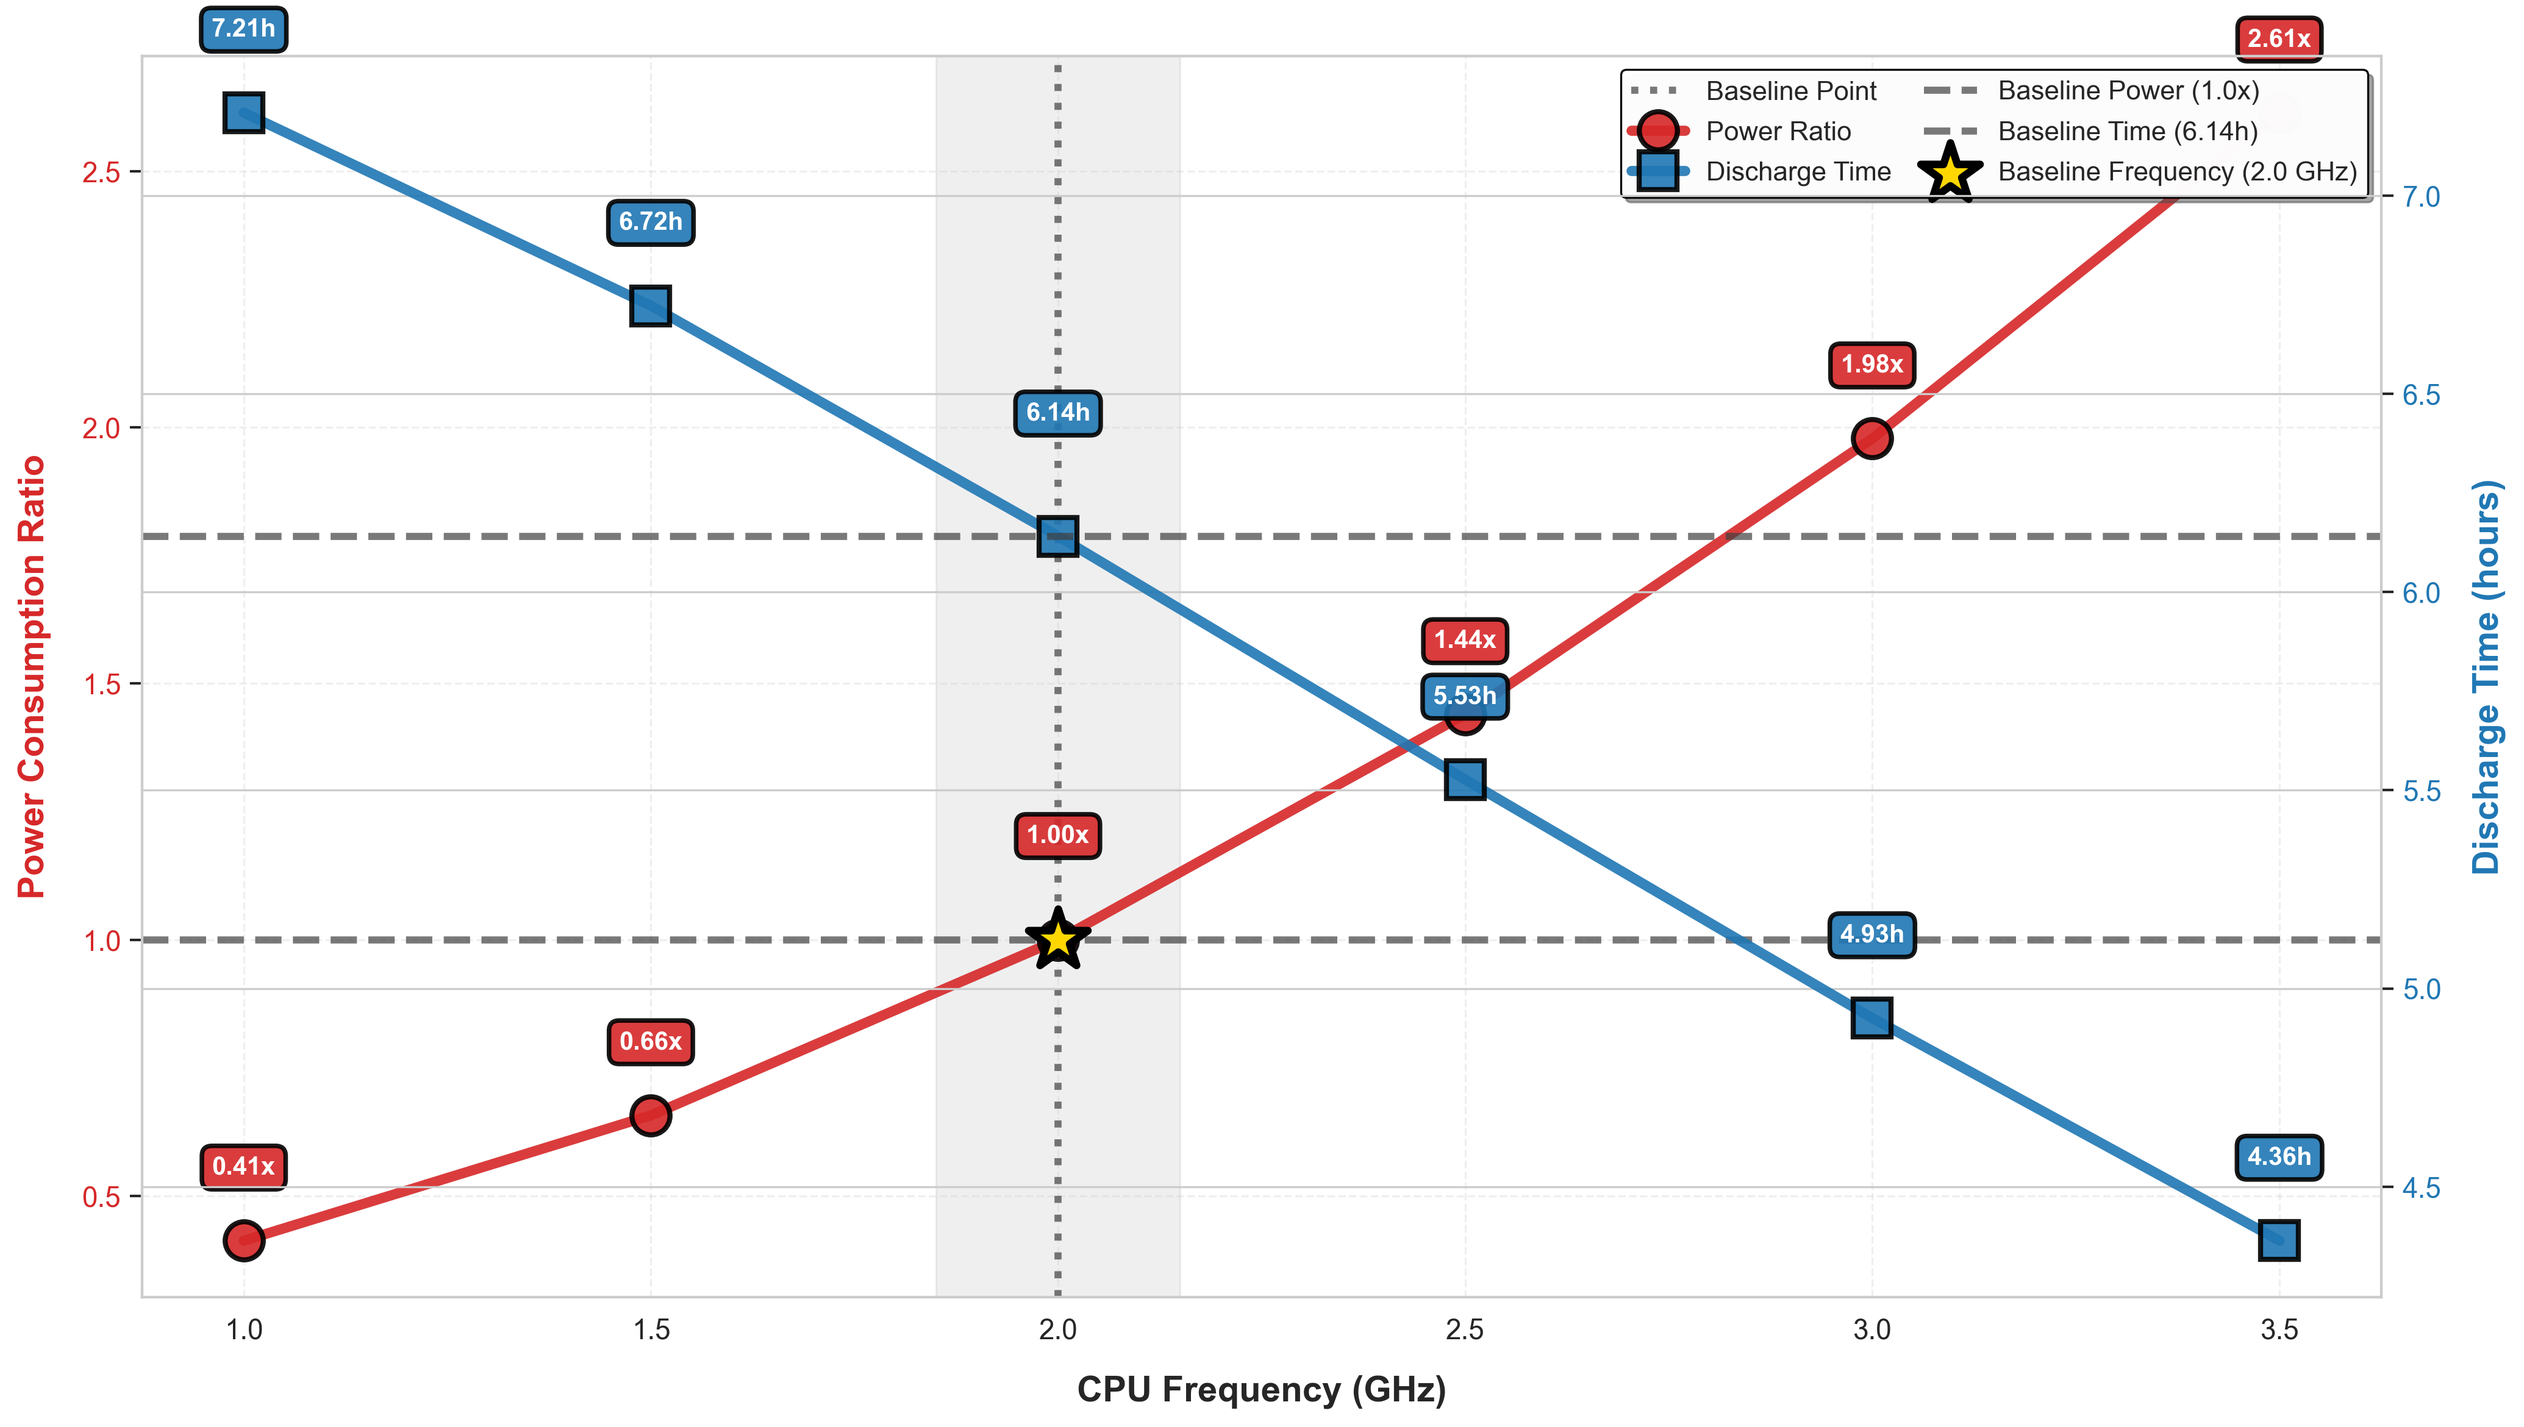
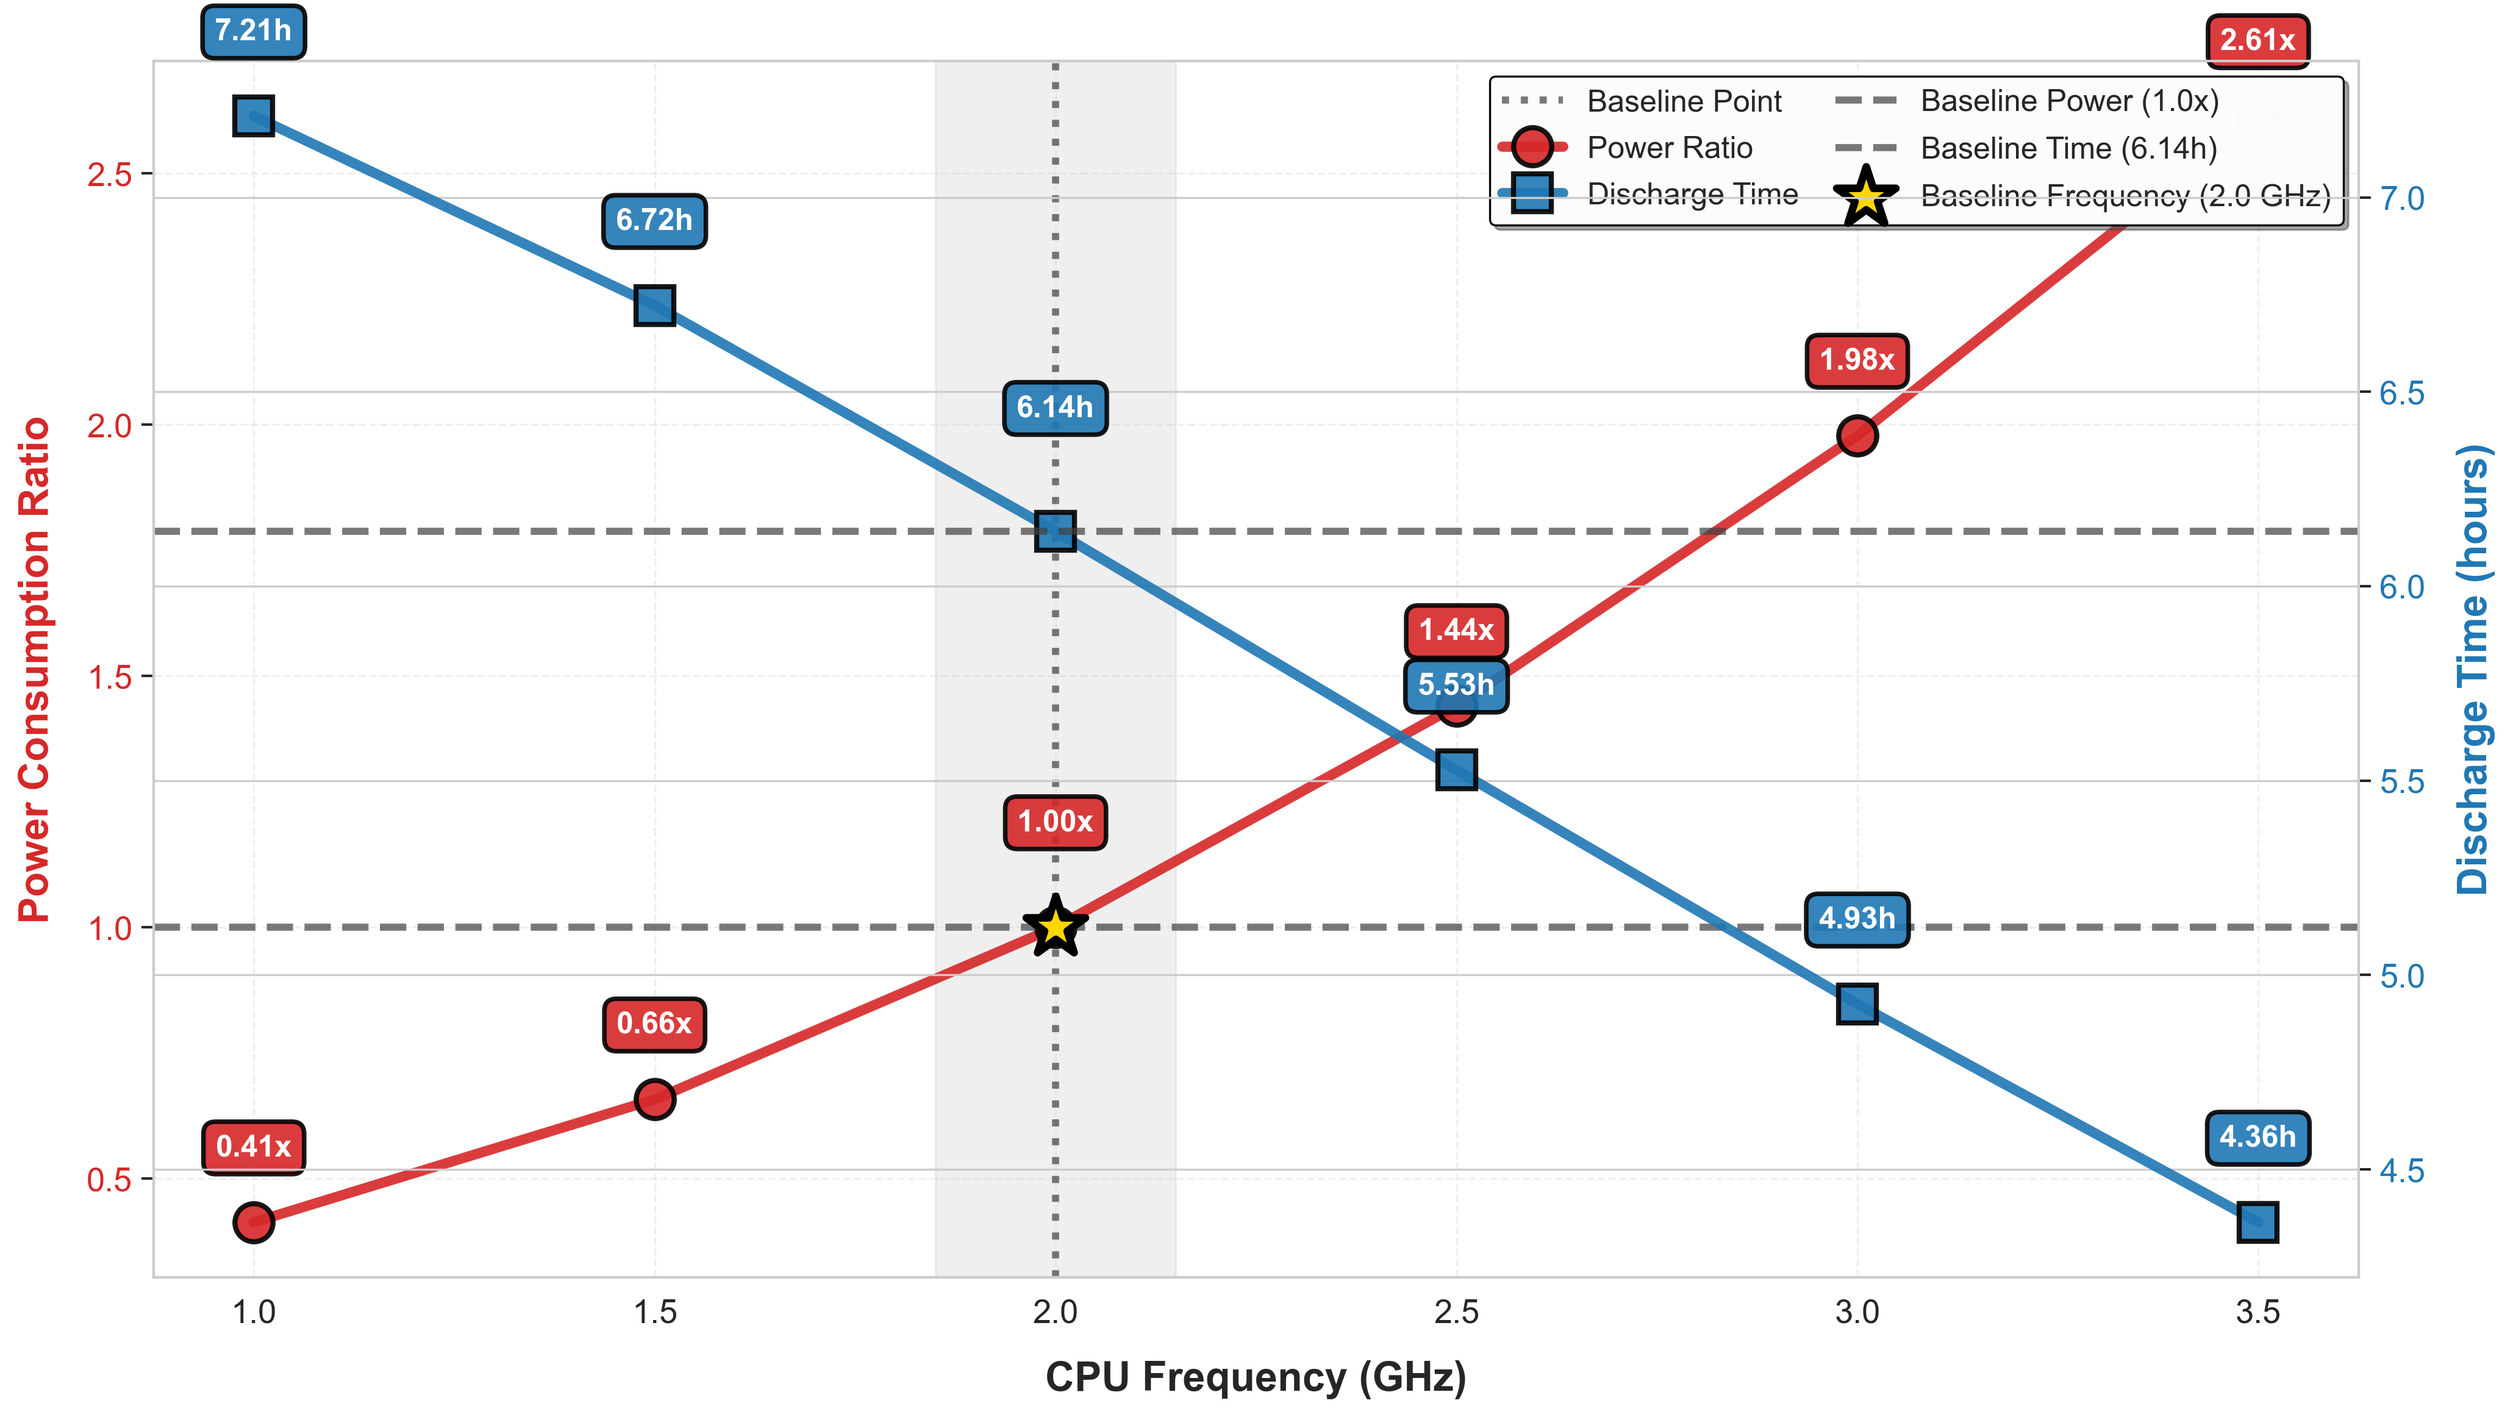
mofify

diff --git a/问题2/power_ratio_analysis.py b/问题2/power_ratio_analysis.py
@@ -12,7 +12,7 @@ from matplotlib import rcParams
 
 # 设置科研美赛风格
 sns.set_style("whitegrid")
-sns.set_context("paper", font_scale=1.4)
+sns.set_context("paper", font_scale=1.6)  # 增大基础字体比例
 sns.set_palette("husl")
 
 # 设置字体为Times New Roman（英文）+ SimHei（中文）
@@ -162,18 +162,22 @@ def create_visualizations(df, baseline_power):
                 square=False,
                 vmin=1.5,
                 vmax=6.5,
-                annot_kws={'fontsize': 10, 'fontweight': 'bold'},
+                annot_kws={'fontsize': 13, 'fontweight': 'bold'},  # 增大热力图数字到13
                 ax=ax)
     
     # 设置标题和标签
     #ax.set_title('Screen Power Consumption Ratio Heatmap\n(Baseline: 60Hz, 30% Brightness)', 
      #            fontsize=16, fontweight='bold', pad=20)
-    ax.set_xlabel('Refresh Rate (Hz)', fontsize=13, fontweight='bold', labelpad=10)
-    ax.set_ylabel('Brightness Level (%)', fontsize=13, fontweight='bold', labelpad=10)
+    ax.set_xlabel('Refresh Rate (Hz)', fontsize=15, fontweight='bold', labelpad=10)  # 增大到15
+    ax.set_ylabel('Brightness Level (%)', fontsize=15, fontweight='bold', labelpad=10)  # 增大到15
     
     # 调整colorbar
     cbar = ax.collections[0].colorbar
-    cbar.ax.tick_params(labelsize=11)
+    cbar.ax.tick_params(labelsize=13)  # 增大colorbar刻度到13
+    cbar.set_label('Power Ratio (relative to baseline)', fontsize=14, fontweight='bold')  # 增大colorbar标签到14
+    
+    # 调整刻度标签大小
+    ax.tick_params(axis='both', which='major', labelsize=13)  # 增大轴刻度到13
     
     plt.tight_layout()
     filename1 = 'power_ratio_heatmap.png'
@@ -181,151 +185,8 @@ def create_visualizations(df, baseline_power):
     plt.close()
     print(f"  [1/4] 已生成: {filename1}")
     
-    # ====================
-    # 图2: 线图 - 不同亮度下刷新率的影响 (Seaborn风格)
-    # ====================
-    fig, ax = plt.subplots(figsize=(12, 7), dpi=300)
+   
     
-    # 使用seaborn的色板
-    palette = sns.color_palette("rocket_r", n_colors=len(df['Brightness'].unique()))
-    
-    for i, brightness in enumerate(sorted(df['Brightness'].unique())):
-        subset = df[df['Brightness'] == brightness].sort_values('Refresh_Rate')
-        ax.plot(subset['Refresh_Rate'], 
-                subset['Power_Ratio'],
-                marker='o',
-                linewidth=2.5,
-                markersize=10,
-                label=f'{int(brightness*100)}% Brightness',
-                color=palette[i],
-                alpha=0.85)
-    
-    # 添加基准线
-    ax.axhline(y=1.0, color='#e74c3c', linestyle='--', linewidth=2.5, 
-               label='Baseline (1.0x)', alpha=0.8, zorder=0)
-    
-    # 设置标题和标签
-    ax.set_xlabel('Refresh Rate (Hz)', fontsize=13, fontweight='bold', labelpad=10)
-    ax.set_ylabel('Power Consumption Ratio', fontsize=13, fontweight='bold', labelpad=10)
-    #ax.set_title('Impact of Refresh Rate on Power Consumption\nat Different Brightness Levels\n(Baseline: 60Hz, 30% Brightness)', 
-      #           fontsize=16, fontweight='bold', pad=20)
-    
-    # 设置图例
-    ax.legend(loc='upper left', frameon=True, shadow=True, 
-              fontsize=11, ncol=2, framealpha=0.95)
-    
-    # 设置网格
-    ax.grid(True, alpha=0.3, linestyle='--', linewidth=0.8)
-    ax.set_axisbelow(True)
-    
-    # 设置刻度
-    ax.set_xticks([60, 70, 80, 90, 100, 110, 120])
-    
-    plt.tight_layout()
-    filename2 = 'power_ratio_by_refresh.png'
-    plt.savefig(filename2, dpi=300, bbox_inches='tight', facecolor='white')
-    plt.close()
-    print(f"  [2/4] 已生成: {filename2}")
-    
-    # ====================
-    # 图3: 分组柱状图 - 不同刷新率下亮度的影响 (Seaborn风格)
-    # ====================
-    fig, ax = plt.subplots(figsize=(14, 7), dpi=300)
-    
-    # 准备数据
-    plot_df = df.copy()
-    plot_df['Brightness_Label'] = plot_df['Brightness_Percent'].astype(str) + '%'
-    
-    # 使用seaborn的barplot
-    sns.barplot(data=plot_df, 
-                x='Refresh_Rate', 
-                y='Power_Ratio',
-                hue='Brightness_Label',
-                palette='mako_r',
-                ax=ax,
-                edgecolor='black',
-                linewidth=1.2,
-                alpha=0.85)
-    
-    # 添加基准线
-    ax.axhline(y=1.0, color='#e74c3c', linestyle='--', linewidth=2.5, 
-               label='Baseline (1.0x)', alpha=0.8, zorder=0)
-    
-    # 设置标题和标签
-    ax.set_xlabel('Refresh Rate (Hz)', fontsize=13, fontweight='bold', labelpad=10)
-    ax.set_ylabel('Power Consumption Ratio', fontsize=13, fontweight='bold', labelpad=10)
-    #ax.set_title('Power Consumption Ratio by Refresh Rate and Brightness\n(Baseline: 60Hz, 30% Brightness)', 
-     #            fontsize=16, fontweight='bold', pad=20)
-    
-    # 设置图例
-    handles, labels = ax.get_legend_handles_labels()
-    ax.legend(handles, labels, 
-              title='Brightness', 
-              loc='upper left', 
-              frameon=True, 
-              shadow=True,
-              fontsize=11,
-              title_fontsize=12,
-              ncol=3,
-              framealpha=0.95)
-    
-    # 设置网格
-    ax.grid(True, alpha=0.3, axis='y', linestyle='--', linewidth=0.8)
-    ax.set_axisbelow(True)
-    
-    plt.tight_layout()
-    filename3 = 'power_ratio_bar_chart.png'
-    plt.savefig(filename3, dpi=300, bbox_inches='tight', facecolor='white')
-    plt.close()
-    print(f"  [3/4] 已生成: {filename3}")
-    
-    # ====================
-    # 图4: 雷达图 - 各刷新率平均功耗倍数对比 (新增)
-    # ====================
-    fig, ax = plt.subplots(figsize=(10, 10), dpi=300, subplot_kw=dict(projection='polar'))
-    
-    # 准备数据
-    refresh_groups = df.groupby('Refresh_Rate')['Power_Ratio'].mean().reset_index()
-    categories = [f'{int(r)} Hz' for r in refresh_groups['Refresh_Rate']]
-    values = refresh_groups['Power_Ratio'].tolist()
-    
-    # 闭合雷达图
-    values += values[:1]
-    angles = np.linspace(0, 2 * np.pi, len(categories), endpoint=False).tolist()
-    angles += angles[:1]
-    
-    # 绘制雷达图
-    ax.plot(angles, values, 'o-', linewidth=3, color='#3498db', label='Average Power Ratio')
-    ax.fill(angles, values, alpha=0.25, color='#3498db')
-    
-    # 添加基准线
-    baseline_values = [1.0] * len(angles)
-    ax.plot(angles, baseline_values, '--', linewidth=2.5, color='#e74c3c', 
-            label='Baseline (1.0x)', alpha=0.8)
-    
-    # 设置标签
-    ax.set_xticks(angles[:-1])
-    ax.set_xticklabels(categories, fontsize=12, fontweight='bold')
-    
-    # 设置标题
-    ##ax.set_title('Average Power Consumption Ratio\nby Refresh Rate\n(Baseline: 60Hz, 30% Brightness)', 
-       #          fontsize=16, fontweight='bold', pad=30, y=1.08)
-    
-    # 设置图例
-    ax.legend(loc='upper right', bbox_to_anchor=(1.3, 1.1), 
-              frameon=True, shadow=True, fontsize=11, framealpha=0.95)
-    
-    # 设置网格
-    ax.grid(True, linestyle='--', alpha=0.5, linewidth=0.8)
-    
-    # 设置y轴范围
-    ax.set_ylim(0, max(values) * 1.1)
-    
-    plt.tight_layout()
-    filename4 = 'power_radar_chart.png'
-    plt.savefig(filename4, dpi=300, bbox_inches='tight', facecolor='white')
-    plt.close()
-    print(f"  [4/4] 已生成: {filename4}")
 
 
 if __name__ == "__main__":

diff --git a/问题2/cpu_frequency_analysis.py b/问题2/cpu_frequency_analysis.py
@@ -19,7 +19,7 @@ from scenery import scenario_video_streaming
 
 # 设置科研美赛风格
 sns.set_style("whitegrid")
-sns.set_context("paper", font_scale=1.4)
+sns.set_context("paper", font_scale=1.6)  # 增大基础字体比例
 sns.set_palette("husl")
 
 # 设置字体为Times New Roman（英文）+ SimHei（中文）
@@ -199,8 +199,8 @@ def create_visualizations(df, baseline_power, baseline_freq):
     baseline_line_color = '#404040'  # 更深的灰色 - 基准线
     
     # 第一个Y轴 - 功耗倍数 (深红色系)
-    ax1.set_xlabel('CPU Frequency (GHz)', fontsize=14, fontweight='bold', labelpad=12)
-    ax1.set_ylabel('Power Consumption Ratio', fontsize=14, fontweight='bold', 
+    ax1.set_xlabel('CPU Frequency (GHz)', fontsize=16, fontweight='bold', labelpad=12)  # 增大到16
+    ax1.set_ylabel('Power Consumption Ratio', fontsize=16, fontweight='bold',  # 增大到16
                    labelpad=12, color=color1)
     
     # 绘制功耗倍数曲线
@@ -222,20 +222,20 @@ def create_visualizations(df, baseline_power, baseline_freq):
         y_offset = 0.12 if row['CPU_Frequency'] != baseline_freq else 0.18
         ax1.text(row['CPU_Frequency'], row['Power_Ratio'] + y_offset, 
                 f"{row['Power_Ratio']:.2f}x",
-                ha='center', va='bottom', fontsize=10, fontweight='bold',
+                ha='center', va='bottom', fontsize=12, fontweight='bold',  # 增大到12
                 color='white', 
                 bbox=dict(boxstyle='round,pad=0.4', 
                          facecolor=color1, alpha=0.9, 
                          edgecolor='black', linewidth=1.8))
     
-    ax1.tick_params(axis='y', labelcolor=color1, labelsize=11)
-    ax1.tick_params(axis='x', labelsize=11)
+    ax1.tick_params(axis='y', labelcolor=color1, labelsize=13)  # 增大到13
+    ax1.tick_params(axis='x', labelsize=13)  # 增大到13
     ax1.grid(True, alpha=0.3, linestyle='--', linewidth=0.8)
     ax1.set_axisbelow(True)
     
     # 第二个Y轴 - 放电时间 (绿色系)
     ax2 = ax1.twinx()
-    ax2.set_ylabel('Discharge Time (hours)', fontsize=14, fontweight='bold', 
+    ax2.set_ylabel('Discharge Time (hours)', fontsize=16, fontweight='bold',  # 增大到16
                    labelpad=12, color=color2)
     
     # 绘制放电时间曲线
@@ -253,13 +253,13 @@ def create_visualizations(df, baseline_power, baseline_freq):
         y_offset = 0.18 if row['CPU_Frequency'] != baseline_freq else 0.28
         ax2.text(row['CPU_Frequency'], row['Discharge_Time'] + y_offset, 
                 f"{row['Discharge_Time']:.2f}h",
-                ha='center', va='bottom', fontsize=10, fontweight='bold',
+                ha='center', va='bottom', fontsize=12, fontweight='bold',  # 增大到12
                 color='white', 
                 bbox=dict(boxstyle='round,pad=0.4', 
                          facecolor=color2, alpha=0.9, 
                          edgecolor='black', linewidth=1.8))
     
-    ax2.tick_params(axis='y', labelcolor=color2, labelsize=11)
+    ax2.tick_params(axis='y', labelcolor=color2, labelsize=13)  # 增大到13
     
     # 标注基准交叉点 - 使用Y1轴的坐标，确保在正确位置
     ax1.scatter([baseline_freq], [baseline_power_ratio], 
@@ -281,7 +281,7 @@ def create_visualizations(df, baseline_power, baseline_freq):
               loc='upper right',  # 改到右上角
               frameon=True, 
               shadow=True, 
-              fontsize=10.5,
+              fontsize=12,  # 增大到12
               framealpha=0.98,
               edgecolor='black',
               fancybox=True,

diff --git a/问题1/plot_model_validation.py b/问题1/plot_model_validation.py
@@ -10,7 +10,7 @@ from scipy import stats
 # Set scientific style
 plt.rcParams['font.family'] = 'DejaVu Sans'
 plt.rcParams['axes.unicode_minus'] = False
-plt.rcParams['font.size'] = 10
+plt.rcParams['font.size'] = 14  # 增大基础字体大小
 
 # Load CSV data
 csv_path = 'discharge_time_prediction.csv'
@@ -116,8 +116,8 @@ ax.axhline(y=24, color='#F77F00', linestyle='--', linewidth=1.5,
 
 # Styling
 ax.set_xlabel('Phone Sample Index', 
-             fontsize=12, fontweight='bold')
-ax.set_ylabel('Discharge Time (hours)', fontsize=12, fontweight='bold')
+             fontsize=16, fontweight='bold')  # 增大到14
+ax.set_ylabel('Discharge Time (hours)', fontsize=16, fontweight='bold')  # 增大到14
 #ax.set_title('Model Validation: Real vs Predicted Discharge Time for 10,000 Smartphones',
       #      fontsize=14, fontweight='bold', pad=20)
 
@@ -126,7 +126,7 @@ ax.grid(True, alpha=0.3, linestyle='--', linewidth=0.5)
 ax.set_axisbelow(True)
 
 # Legend
-ax.legend(loc='upper left', fontsize=10, frameon=True, 
+ax.legend(loc='upper left', fontsize=12, frameon=True,  # 增大到12
          facecolor='white', edgecolor='#2C3E50', framealpha=0.95)
 
 # Add statistics text box - moved to upper right
@@ -145,9 +145,10 @@ props = dict(boxstyle='round', facecolor='wheat', alpha=0.8, edgecolor='#2C3E50'
 ax.set_ylim(-1, 32)
 ax.set_xlim(0, n_phones)
 
-# Format x-axis
+# Format x-axis with larger tick labels
 ax.set_xticks([0, 2000, 4000, 6000, 8000, 10000])
-ax.set_xticklabels(['0', '2K', '4K', '6K', '8K', '10K'])
+ax.set_xticklabels(['0', '2K', '4K', '6K', '8K', '10K'], fontsize=12)  # 增大刻度标签
+ax.tick_params(axis='both', which='major', labelsize=12)  # 同时设置两个轴的刻度大小
 
 plt.tight_layout()
 plt.savefig('model_validation_10k_phones.png', dpi=300, bbox_inches='tight', 
